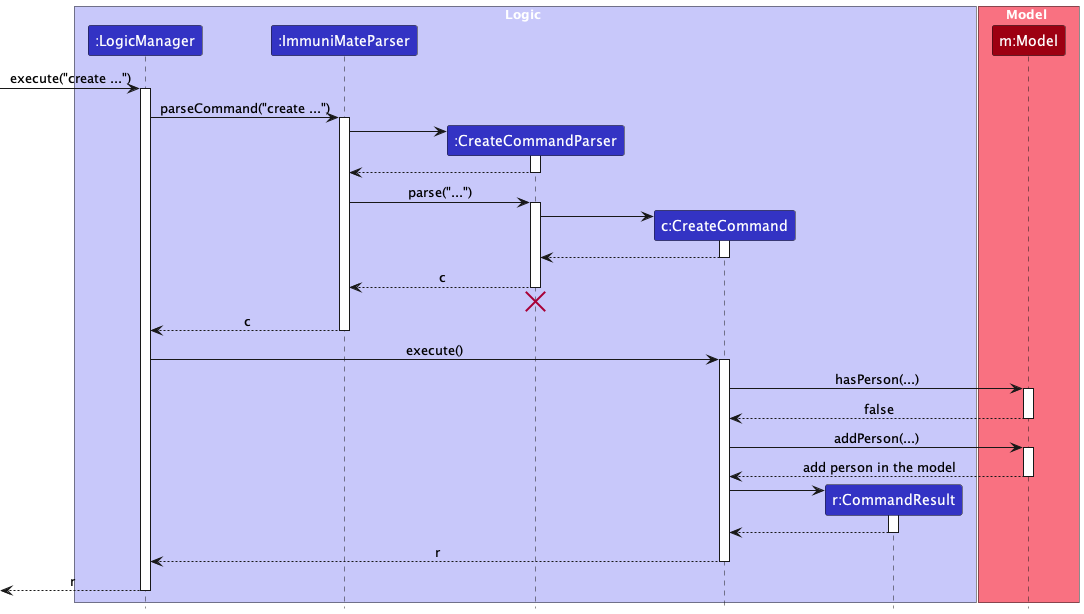
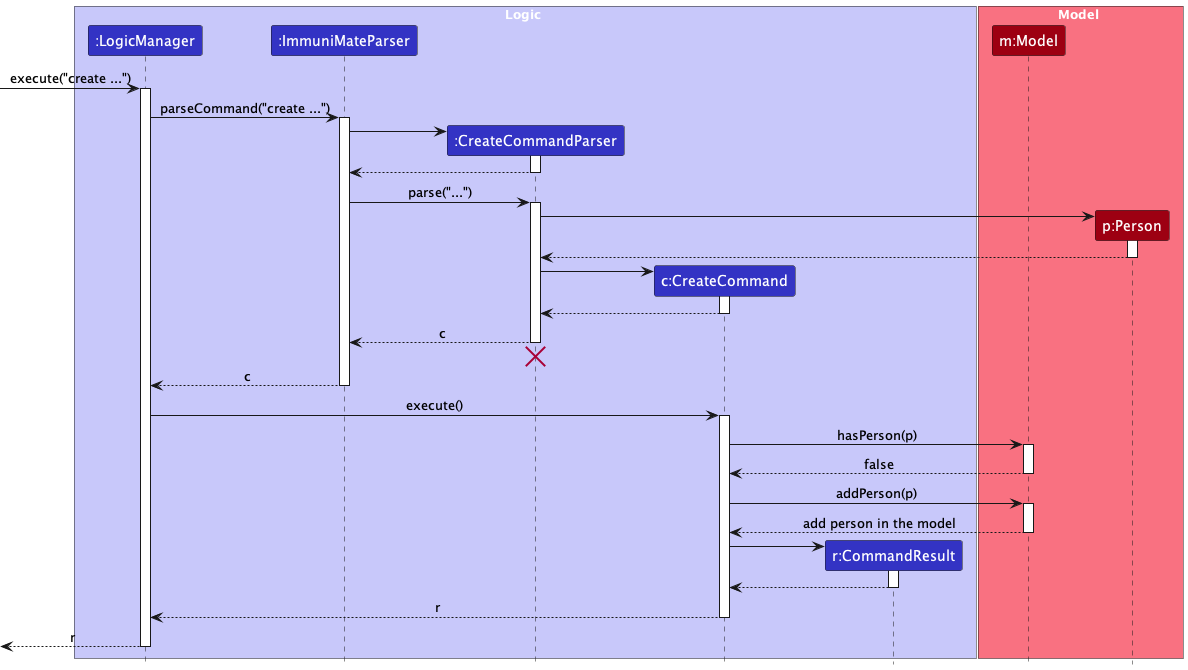
Update uml diagrams.

Changed region(s): [[0.0, 0.0, 1.0, 0.9902], [0.3653, 0.4951, 0.3958, 0.5261], [0.0, 0.9593, 0.0304, 0.9902]]

diff --git a/src/main/java/seedu/address/logic/commands/CreateCommand.java b/src/main/java/seedu/address/logic/commands/CreateCommand.java
@@ -63,8 +63,6 @@ public class CreateCommand extends Command {
         requireNonNull(person);
         toAdd = person;
     }
-
-    //TODO test cases
     @Override
     public CommandResult execute(Model model) throws CommandException {
         requireNonNull(model);
